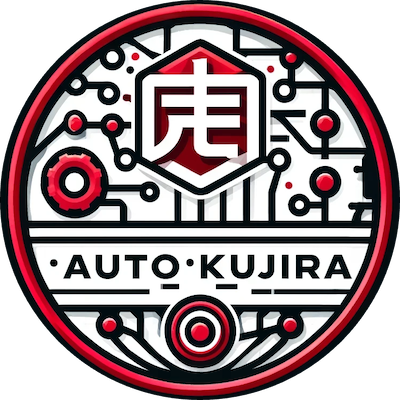
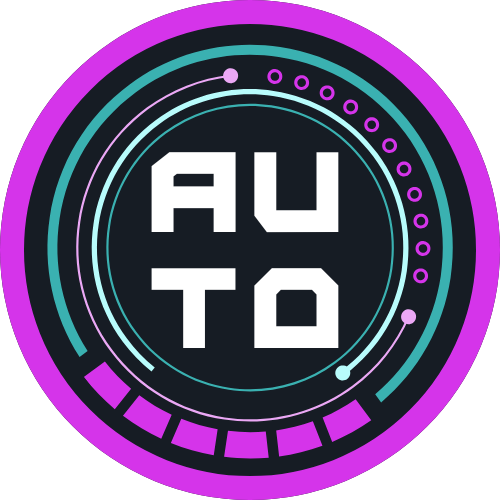
MInor fix getKey keplr adapter

diff --git a/clients/extension/src/inpage/providers/xdefiKeplr.ts b/clients/extension/src/inpage/providers/xdefiKeplr.ts
@@ -712,6 +712,10 @@ export class XDEFIKeplrProvider extends Keplr {
   async getKey(chainId: string): Promise<Key> {
     const [{ pubkey, address, algo }] = await getAccounts(chainId)
 
+    const vault = await callBackground({
+      exportVault: {},
+    })
+
     const addressBytes = new Uint8Array(
       bech32.fromWords(bech32.decode(address).words)
     )
@@ -723,7 +727,7 @@ export class XDEFIKeplrProvider extends Keplr {
       address: addressBytes,
       isNanoLedger: false,
       isKeystone: false,
-      name: '',
+      name: vault.name,
       algo,
     }
   }

diff --git a/core/chain/coin/knownTokens/thorchain.ts b/core/chain/coin/knownTokens/thorchain.ts
@@ -13,12 +13,12 @@ export const thorchainNativeTokensMetadata: Record<string, CoinMetadata> = {
   },
   'thor.lqdy': {
     ticker: 'LQDY',
-    logo: 'ruji',
+    logo: 'lqdy.png',
     decimals: 8,
   },
   'thor.auto': {
     ticker: 'AUTO',
-    logo: 'ruji',
+    logo: 'auto.png',
     decimals: 8,
   },
   'x/nami-index-fixed-thor1yqf5spdv8c4088zmvqsg32eq63fzepsjvntahdk0ek0yjnkt3qdqftp3lc-rcpt':
